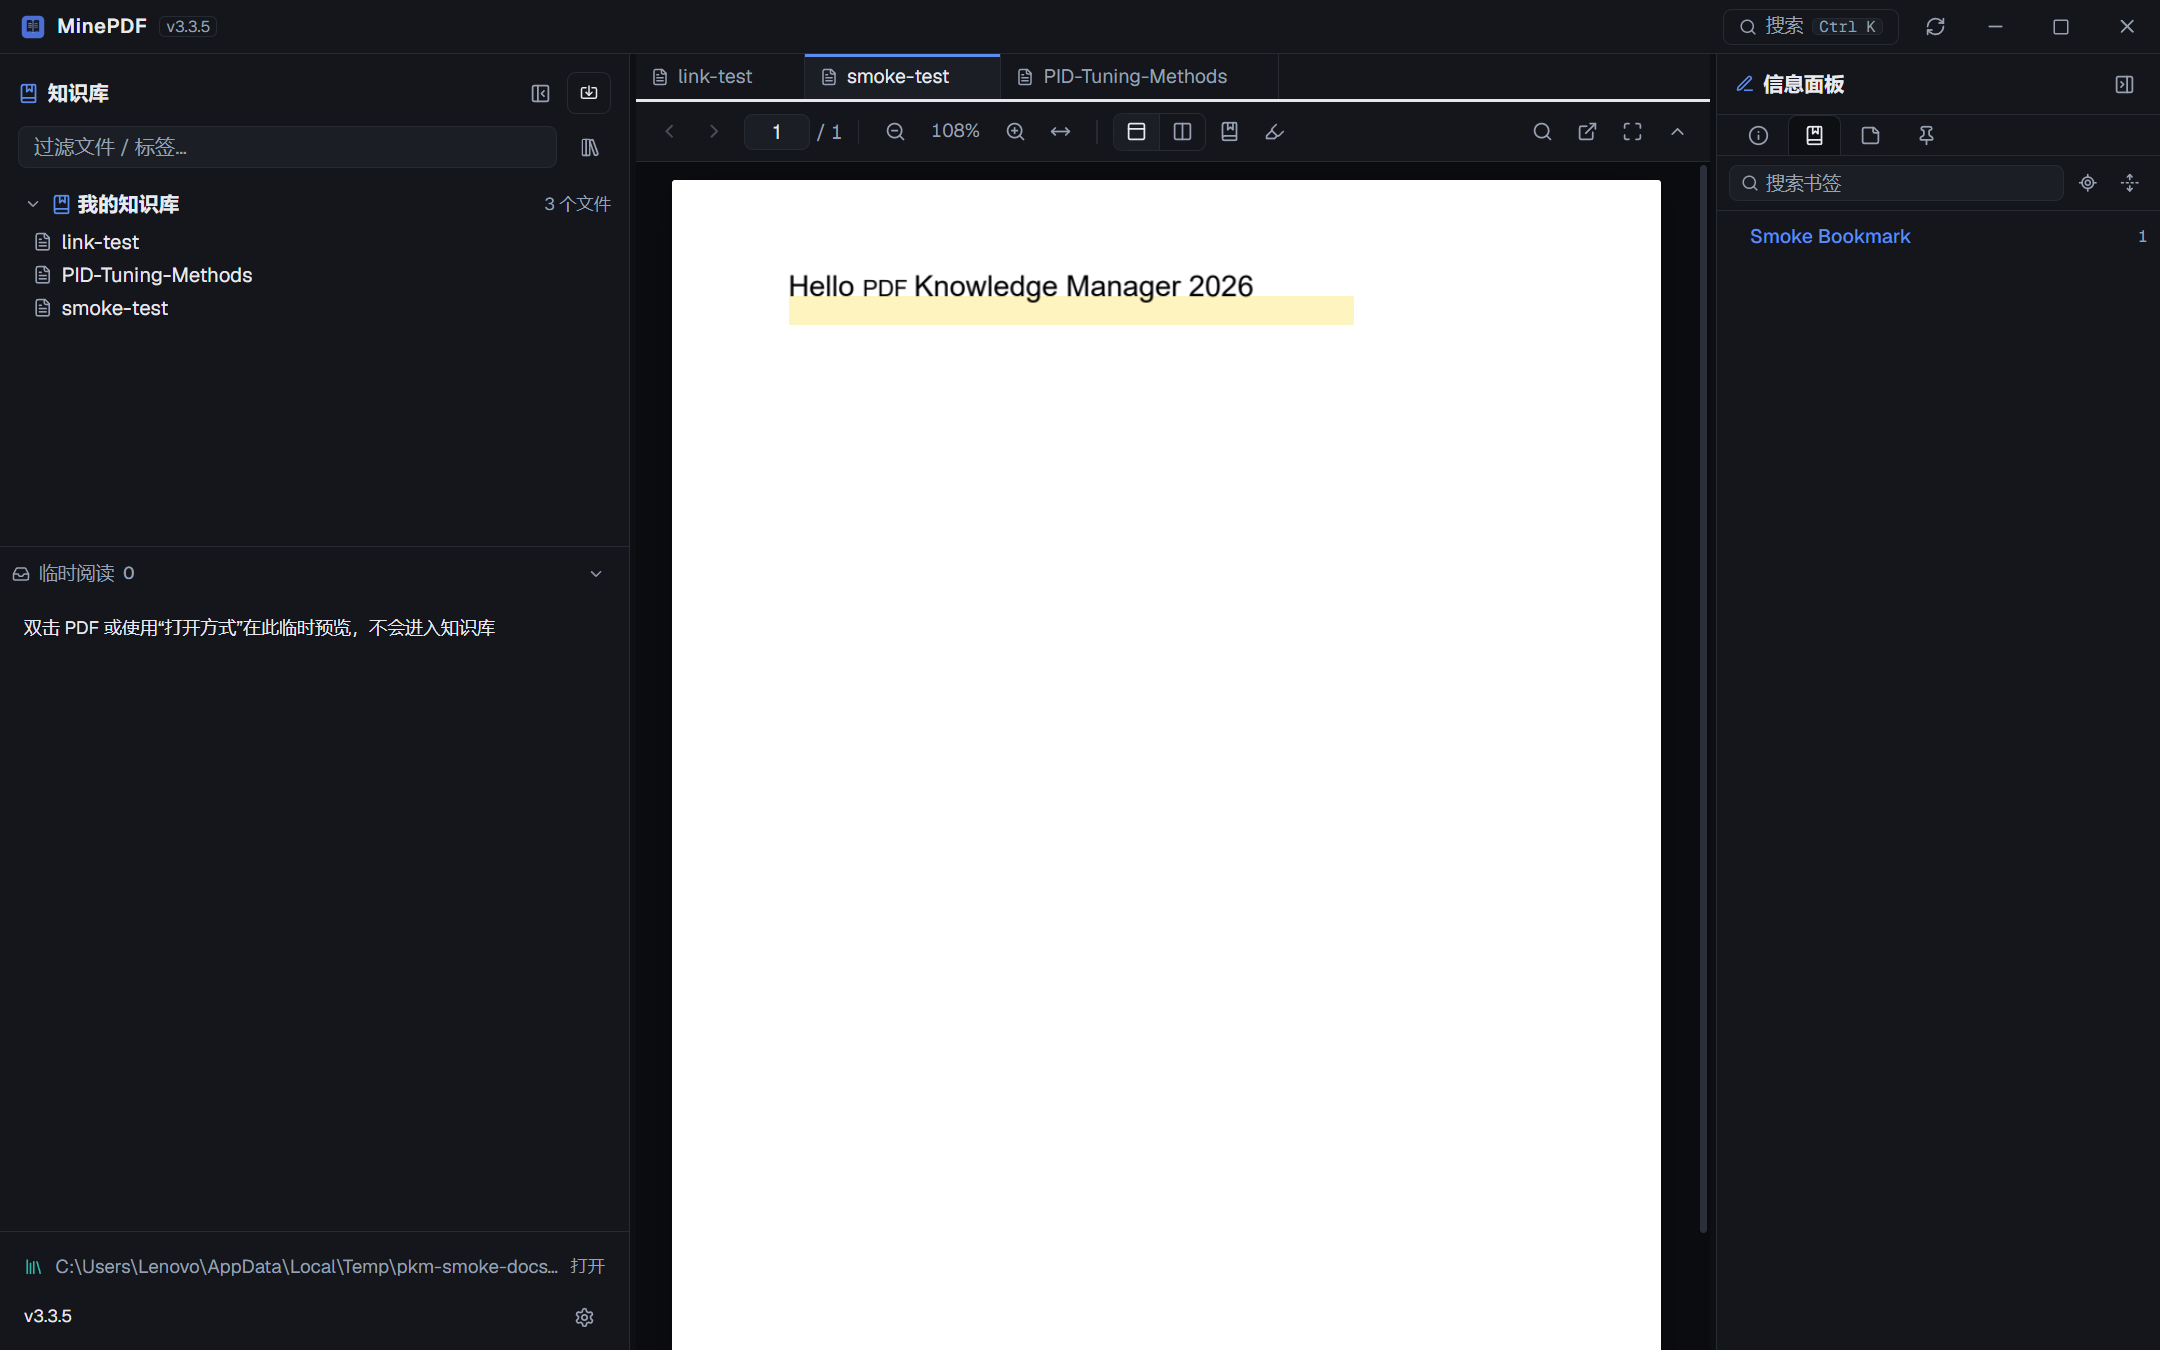
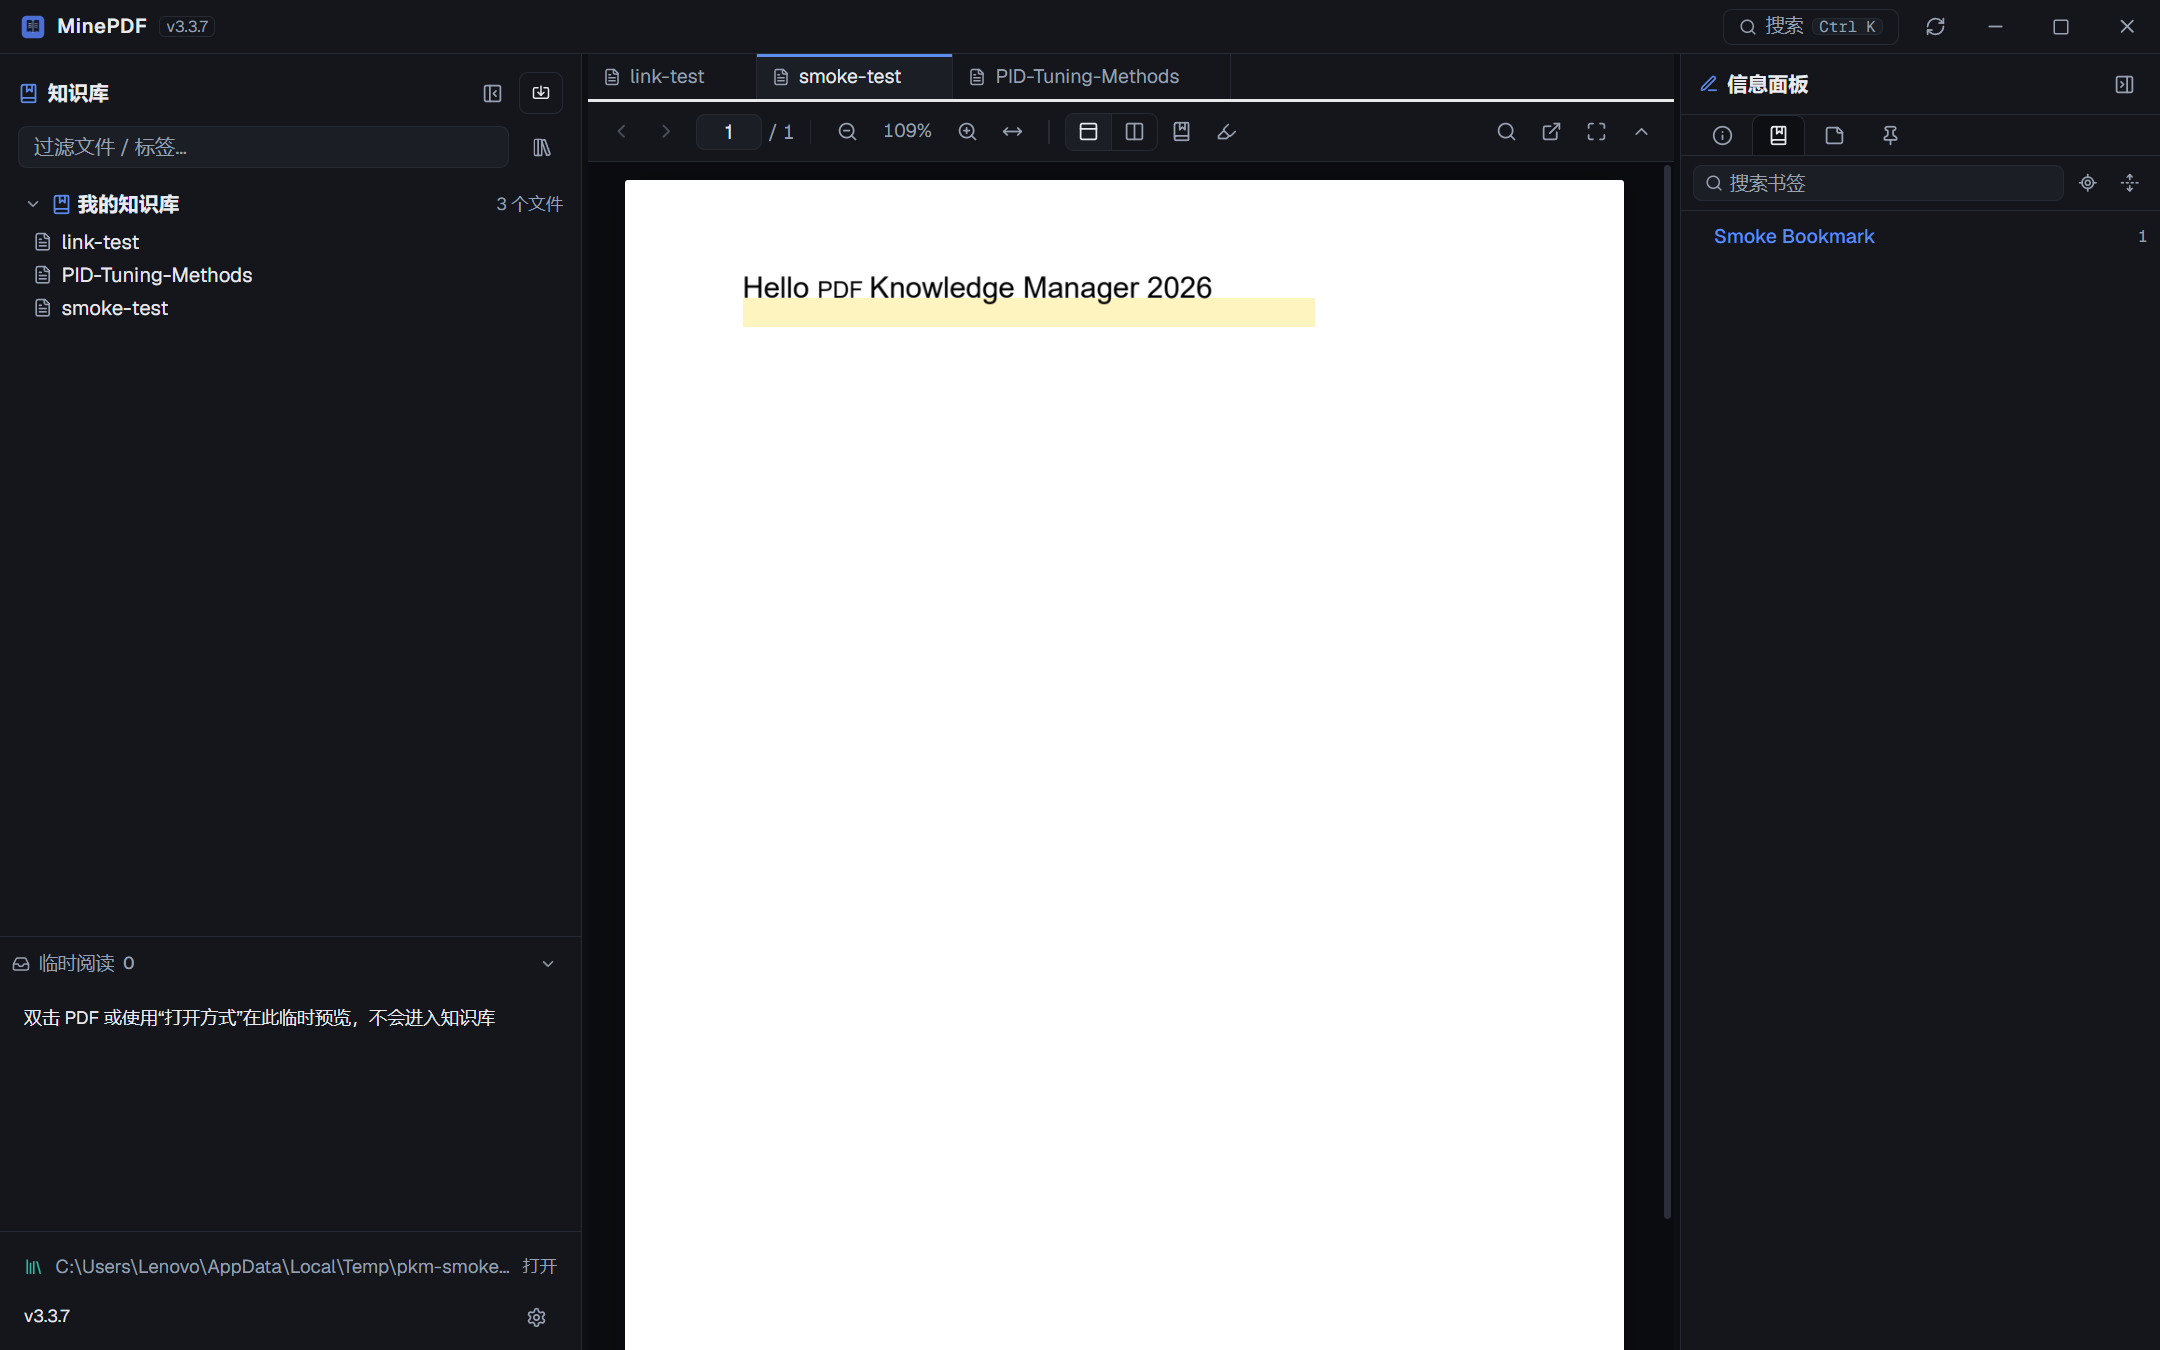
release: v3.3.7 - 渲染优化：PDFium首帧秒出（页数/尺寸不等pdf.js与readPdf，提前恢复阅读页码），0.25级渲染桶只缩小不发虚，Sumatra式相邻页预渲染翻页秒开

diff --git a/src/components/Viewer/PdfViewer.tsx b/src/components/Viewer/PdfViewer.tsx
@@ -12,6 +12,14 @@ import {
   type SearchMatch,
   type ViewportLike,
 } from '../../lib/pdf';
+import {
+  getCachedPage,
+  pageCacheKey,
+  putCachedPage,
+  renderBucket,
+  toImageBitmap,
+} from '../../lib/pageImageCache';
+import { pdfiumRenderQueued } from '../../lib/pdfiumBatcher';
 import { useApp } from '../../store';
 import { ContextMenu } from '../ui';
 import { PdfPage, type PdfLinkService } from './PdfPage';
@@ -185,9 +193,12 @@ export function PdfViewer({ pdf, paneId, onMissing, paneActive = true }: PdfView
     let loadingTask: ReturnType<typeof pdfjsLib.getDocument> | null = null;
     let owned: PDFDocumentProxy | null = null;
     let finished = false;
+    let restored = false;
     // 记录该 PDF 上次阅读页码：切标签/重开后恢复（须在 setCurrentPage(1) 重置前读取）
     const savedPage = useApp.getState().tabPages[pdf.id] ?? 1;
     const restorePage = () => {
+      if (restored) return;
+      restored = true;
       if (savedPage > 1 && currentPdfIdRef.current === pdf.id) {
         useApp.getState().requestJump(savedPage);
       }
@@ -238,10 +249,9 @@ export function PdfViewer({ pdf, paneId, onMissing, paneActive = true }: PdfView
 
     void (async () => {
       try {
-        // PDFium 与 PDF.js 并行打开：PDFium 打开 ~1ms，可提前拿到页数/尺寸
+        // PDFium 与 PDF.js 并行打开。重点：不等 readPdf（大文件整份经 IPC 传输耗时），
+        // PDFium 打开 ~1ms 先把页数/尺寸落地，页面即可用 PDFium 位图开始渲染（秒出首帧）。
         const pdfiumPromise = window.pkm.pdfiumOpen(pdf.id).catch(() => null);
-        const buf = await window.pkm.readPdf(pdf.id);
-        if (cancelled) return;
         const pdfiumInfoRes = await pdfiumPromise;
         if (cancelled) return;
         if (pdfiumInfoRes) {
@@ -250,6 +260,10 @@ export function PdfViewer({ pdf, paneId, onMissing, paneActive = true }: PdfView
           setBaseH(pdfiumInfoRes.height);
           void window.pkm.updatePdfPageCount(pdf.id, pdfiumInfoRes.pageCount).catch(() => undefined);
         }
+        // 位图布局已就绪，提前恢复上次阅读页码，不必等 pdf.js 解析完
+        restorePage();
+        const buf = await window.pkm.readPdf(pdf.id);
+        if (cancelled) return;
         loadingTask = pdfjsLib.getDocument({
           data: new Uint8Array(buf),
           cMapUrl: './cmaps/',
@@ -319,7 +333,8 @@ export function PdfViewer({ pdf, paneId, onMissing, paneActive = true }: PdfView
     }
   };
 
-  const pageCount = doc?.numPages ?? 0;
+  // PDFium 打开即给出页数：pdf.js 文档就绪前也能先渲染页面（秒出首帧）
+  const pageCount = doc?.numPages ?? pdfiumInfo?.pageCount ?? 0;
 
   // 宽度自适应策略（3.2.1）：
   // - 打开文档时适配一次；
@@ -328,7 +343,7 @@ export function PdfViewer({ pdf, paneId, onMissing, paneActive = true }: PdfView
   // - 放大窗口、折叠/展开边栏或信息面板、拖拽分屏分隔线：一律不自动缩放，
   //   避免大文件反复重渲染（用户可手动缩放或用小手拖拽查看）。
   useEffect(() => {
-    if (!doc || !baseW) return;
+    if (!baseW) return;
     let timer: ReturnType<typeof setTimeout> | null = null;
     const fit = () => {
       if (immersiveRef.current) return;
@@ -391,6 +406,28 @@ export function PdfViewer({ pdf, paneId, onMissing, paneActive = true }: PdfView
       cancelAnimationFrame(raf);
     };
   }, [doc, mode, pageCount, scale]);
+
+  // ---------- 相邻页预渲染（SumatraPDF 式） ----------
+  // 当前页变化/缩放后，提前把下一页（双页模式预取下一行两页）的 PDFium 位图渲染进缓存，
+  // 翻页时直接命中缓存秒开，避免滚动到目标页才发起渲染的等待。仅活动屏预取，控制 IPC 负载。
+  useEffect(() => {
+    if (!paneActive || !pdfiumInfo || pageCount <= 1) return;
+    const dpr = window.devicePixelRatio || 1;
+    const bucket = renderBucket(scale * dpr);
+    const prefetch = (n: number) => {
+      if (n < 1 || n > pageCount) return;
+      const key = pageCacheKey(pdf.id, n, bucket);
+      if (getCachedPage(key)) return;
+      pdfiumRenderQueued(paneId, pdf.id, n, bucket)
+        .then(async (res) => {
+          const bmp = await toImageBitmap(res);
+          putCachedPage(key, bmp, res.w, res.h);
+        })
+        .catch(() => undefined);
+    };
+    prefetch(currentPage + 1);
+    if (mode === 'double') prefetch(currentPage + 2);
+  }, [currentPage, scale, mode, pageCount, pdf.id, paneId, paneActive, pdfiumInfo]);
 
   // ---------- Ctrl + wheel zoom（只作用于本屏自己的滚动容器，锚定光标） ----------
   // 监听挂在每个屏独立的滚动容器上：分屏时各屏独立缩放，
@@ -755,12 +792,14 @@ export function PdfViewer({ pdf, paneId, onMissing, paneActive = true }: PdfView
   const renderPage = (n: number) => (
     <PdfPage
       key={`${pdf.id}-${n}`}
-      doc={doc!}
+      doc={doc}
       pdfId={pdf.id}
       paneId={paneId}
       pageNumber={n}
       scale={scale}
       renderer={pdfiumInfo ? 'pdfium' : 'pdfjs'}
+      fallbackW={pdfiumInfo?.width ?? null}
+      fallbackH={pdfiumInfo?.height ?? null}
       annotations={annotationsByPage.get(n) ?? []}
       searchMatches={searchByPage.get(n) ?? []}
       selectedAnnotationId={selectedAnnotationId}
@@ -900,7 +939,7 @@ export function PdfViewer({ pdf, paneId, onMissing, paneActive = true }: PdfView
           />
         )}
 
-        {doc ? (
+        {doc || pdfiumInfo ? (
           <div
             ref={scrollRef}
             data-pan-scroll

diff --git a/src/components/Viewer/PdfPage.tsx b/src/components/Viewer/PdfPage.tsx
@@ -5,7 +5,7 @@ import {
   getCachedPage,
   pageCacheKey,
   putCachedPage,
-  scaleBucket,
+  renderBucket,
   toImageBitmap,
 } from '../../lib/pageImageCache';
 import { pdfiumRenderQueued } from '../../lib/pdfiumBatcher';
@@ -22,7 +22,8 @@ export interface PdfLinkService {
 }
 
 interface PdfPageProps {
-  doc: PDFDocumentProxy;
+  /** pdf.js 文档代理；首次渲染时可能尚未就绪（先由 PDFium 出像素） */
+  doc: PDFDocumentProxy | null;
   pdfId: number;
   /** 阅读屏唯一标识（分屏渲染请求隔离） */
   paneId: string;
@@ -34,6 +35,9 @@ interface PdfPageProps {
   searchMatches: SearchMatch[];
   selectedAnnotationId: number | null;
   linkService: PdfLinkService;
+  /** PDFium 已给出的页面物理尺寸（doc 未就绪时用于占位布局） */
+  fallbackW: number | null;
+  fallbackH: number | null;
   onAnnotationClick: (a: AnnotationRecord) => void;
   onAnnotationContextMenu: (a: AnnotationRecord, x: number, y: number) => void;
   registerPage: (n: number, el: HTMLDivElement | null) => void;
@@ -69,6 +73,8 @@ export function PdfPage({
   searchMatches,
   selectedAnnotationId,
   linkService,
+  fallbackW,
+  fallbackH,
   onAnnotationClick,
   onAnnotationContextMenu,
   registerPage,
@@ -111,9 +117,20 @@ export function PdfPage({
     let cancelled = false;
     void (async () => {
       try {
-        const page = await doc.getPage(pageNumber);
-        if (cancelled) return;
-        const vp = page.getViewport({ scale });
+        let vp: PageViewport | null = null;
+        if (doc) {
+          const page = await doc.getPage(pageNumber);
+          if (cancelled) return;
+          vp = page.getViewport({ scale });
+        } else if (fallbackW != null && fallbackH != null) {
+          // PDFium 已给出页面尺寸：先用它布局占位，等 pdf.js 就绪后换真实 viewport
+          vp = {
+            width: fallbackW * scale,
+            height: fallbackH * scale,
+            scale,
+          } as PageViewport;
+        }
+        if (!vp) return;
         setViewport(vp);
         registerViewport(pageNumber, vp);
       } catch {
@@ -124,7 +141,7 @@ export function PdfPage({
       cancelled = true;
       registerViewport(pageNumber, null);
     };
-  }, [doc, pageNumber, scale, visible, registerViewport]);
+  }, [doc, pageNumber, scale, visible, registerViewport, fallbackW, fallbackH]);
 
   // Layout + high-res render scheduling
   useEffect(() => {
@@ -164,7 +181,7 @@ export function PdfPage({
       }
     };
     // eslint-disable-next-line react-hooks/exhaustive-deps
-  }, [viewport, renderer]);
+  }, [viewport, renderer, doc]);
 
   /** 把位图按 CSS 尺寸绘制到页面 canvas */
   function paintBitmap(bitmap: ImageBitmap, cssW: number, cssH: number): void {
@@ -183,6 +200,7 @@ export function PdfPage({
 
   /** 文本层 + 链接层（PDF.js，两套渲染路径共用） */
   async function renderTextAndAnnots(vp: PageViewport, seq: number): Promise<void> {
+    if (!doc) return; // pdf.js 文档尚未就绪：先保持纯 PDFium 位图，就绪后本 effect 会重跑
     const page = await doc.getPage(pageNumber);
     if (seq !== renderSeqRef.current) return;
     const text = textRef.current;
@@ -226,30 +244,30 @@ export function PdfPage({
     const cssW = Math.floor(vp.width);
     const cssH = Math.floor(vp.height);
     const deviceScale = vp.scale * dpr;
-    // 渲染期间显示动态加载动画，避免大文件黑屏
-    setPending(true);
+    // 仅首次渲染显示加载动画；缩放/切回时的再渲染直接复用旧位图拉伸过渡
+    setPending(!hasRenderedRef.current);
 
-    // 1) 同质量（同缩放桶）缓存直接复用
-    const bucket = scaleBucket(deviceScale);
+    // 1) 同渲染桶缓存直接复用（渲染倍率 ≥ 显示倍率，只会缩小显示，不发虚）
+    const bucket = renderBucket(deviceScale);
     const hiKey = pageCacheKey(pdfId, pageNumber, bucket);
     const hi = getCachedPage(hiKey);
     if (hi) {
+      setPending(false);
       paintBitmap(hi, cssW, cssH);
       hasRenderedRef.current = true;
-      setPending(false);
       // 位图命中缓存时仍需渲染文本层/链接层（选词、高亮、交叉引用）
       await renderTextAndAnnots(vp, seq);
       return;
     }
 
-    // 2) 高清直接渲染（PDFium 单页 ~10ms）：首次立即，缩放时 60ms 防抖，
+    // 2) 高清直接渲染（PDFium 单页 ~10ms）：首次立即，缩放时 120ms 防抖，
     //    过渡期由浏览器把旧位图拉伸到新尺寸（自然、不跳变）
     if (timerRef.current) clearTimeout(timerRef.current);
     timerRef.current = setTimeout(async () => {
       timerRef.current = null;
       const seq2 = renderSeqRef.current;
       try {
-        const res = await pdfiumRenderQueued(paneId, pdfId, pageNumber, deviceScale);
+        const res = await pdfiumRenderQueued(paneId, pdfId, pageNumber, bucket);
         if (seq2 !== renderSeqRef.current) return;
         const bmp = await toImageBitmap(res);
         putCachedPage(hiKey, bmp, res.w, res.h);
@@ -270,6 +288,7 @@ export function PdfPage({
 
   /** PDF.js 回退路径：原有渲染逻辑 */
   async function renderWithPdfjs(vp: PageViewport): Promise<void> {
+    if (!doc) return;
     const seq = ++renderSeqRef.current;
     setPending(true);
     try {

diff --git a/src/lib/pageImageCache.ts b/src/lib/pageImageCache.ts
@@ -22,6 +22,14 @@ export function scaleBucket(scale: number): number {
   return Math.max(0.5, Math.round(scale * 2) / 2);
 }
 
+/**
+ * 渲染倍率桶：向上取整到 0.25 级，保证“显示倍率 ≤ 渲染倍率”，
+ * 位图永远只做缩小显示，任何缩放级别都不会把低清图放大（发虚）。
+ */
+export function renderBucket(scale: number): number {
+  return Math.max(0.5, Math.ceil(scale * 4) / 4);
+}
+
 export function pageCacheKey(pdfId: number, page: number, bucket: number): string {
   return `${pdfId}:${page}:${bucket}`;
 }
